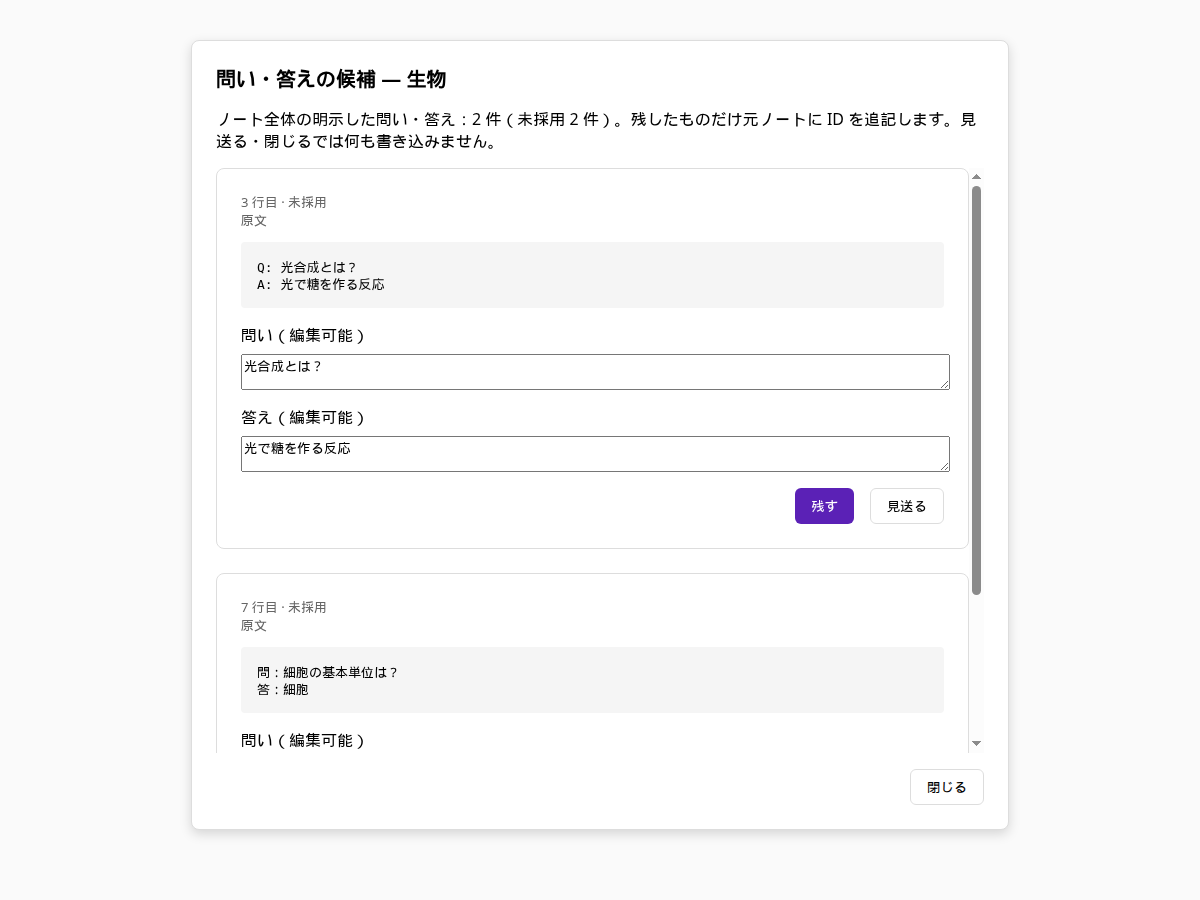
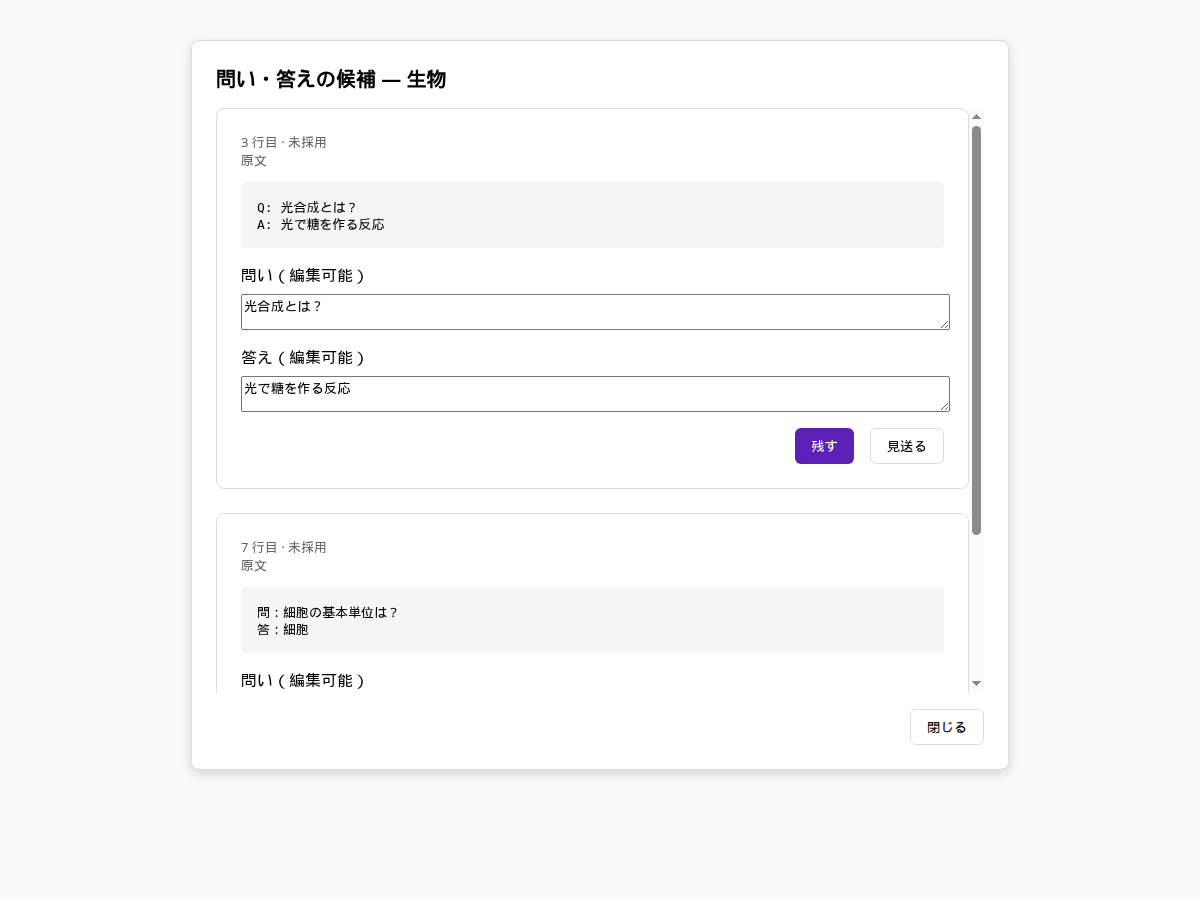
Remove summary text from candidate selection modal
削除した文:
- 「残したものだけ元ノートに ID を追記します。見送る・閉じるでは何も書き込みません。」
- 件数の行「…の明示した問い・答え：N 件（未採用 M 件）。」

残したもの: タイトル、各カードの問い・答え・元の原文、ボタン「残す」「見送る」、フィールドの「（編集可能）」

更新:
- src/ui/candidate-modal.ts: サマリーセクションを削除
- tests/ui/candidates.test.mjs: サマリーテキストの検証を削除
- artifacts/ui-screenshots/after.html: 説明文なし（変更後）
- artifacts/ui-screenshots/before.html: 変更なし（変更前のサマリー付き）
- 両PNGを再生成
- docs/candidate-selection-ui.md: サマリーセクションを削除、セクション番号を調整

All 382 tests passed.
Build ID: 31c9746c85cd0a806edddd41f2809a0c6e92a555d85bd71093a606ca5cadcf97

diff --git a/src/ui/candidate-modal.ts b/src/ui/candidate-modal.ts
@@ -172,11 +172,7 @@ export class CandidateModal extends Modal {
     const scrollTop = contentEl.querySelector('.kioku-candidate-list')?.scrollTop ?? 0;
     const focus = this.focusState();
     contentEl.empty();
-    const scope = this.options.scope === 'selection' ? '選択範囲' : 'ノート全体';
     const explicit = this.entries.filter((entry) => entry.candidate);
-    const pending = explicit.filter((entry) => entry.state === 'open').length;
-    contentEl.createEl('p', { cls: 'kioku-candidate-summary',
-      text: `${scope}の明示した問い・答え：${explicit.length} 件（未採用 ${pending} 件）。残したものだけ元ノートに ID を追記します。見送る・閉じるでは何も書き込みません。` });
     if (!explicit.length) this.renderSyntaxHint(contentEl);
     const list = contentEl.createDiv({ cls: 'kioku-candidate-list' });
     for (const entry of explicit) {

diff --git a/artifacts/ui-screenshots/after.html b/artifacts/ui-screenshots/after.html
@@ -286,7 +286,6 @@
   <div class="modal-container">
     <section class="kioku-candidate-modal">
       <h2>問い・答えの候補 — 生物</h2>
-      <p class="kioku-candidate-summary">ノート全体の明示した問い・答え：2 件（未採用 2 件）。残したものだけ元ノートに ID を追記します。見送る・閉じるでは何も書き込みません。</p>
       
       <div class="kioku-candidate-list">
         <!-- Card 1 -->

diff --git a/docs/candidate-selection-ui.md b/docs/candidate-selection-ui.md
@@ -21,14 +21,7 @@
 - タイトル: 「問い・答えの候補 — [ノート名]」
 - スコープ表示: ノート全体 または 選択範囲
 
-### 2. サマリーセクション
-```
-[スコープ]の明示した問い・答え：N 件（未採用 M 件）。
-残したものだけ元ノートに ID を追記します。
-見送る・閉じるでは何も書き込みません。
-```
-
-### 3. 候補カード（各候補ごと）
+### 2. 候補カード（各候補ごと）
 
 #### メタデータ行
 - 行番号: 「N 行目」
@@ -61,7 +54,7 @@
 - 確認中: 「保存を確認しています…」
 - 回復中: 「別の画面の保存と重なりました。ノートが落ち着くのを待って、もう一度保存します…」
 
-### 4. 注記とガイダンス
+### 3. 注記とガイダンス
 
 #### 空行挿入の注記
 直後に空行がない候補には:
@@ -75,7 +68,7 @@
 - 採用済みカードと同じ内容: 「採用済みカードと同じ内容です。」
 - その他の警告（AI 生成候補の場合）
 
-### 5. フッター
+### 4. フッター
 - **閉じる**ボタン: ポップアップを閉じる（保存済みの採用だけが残る）
 
 ## 主要な機能
